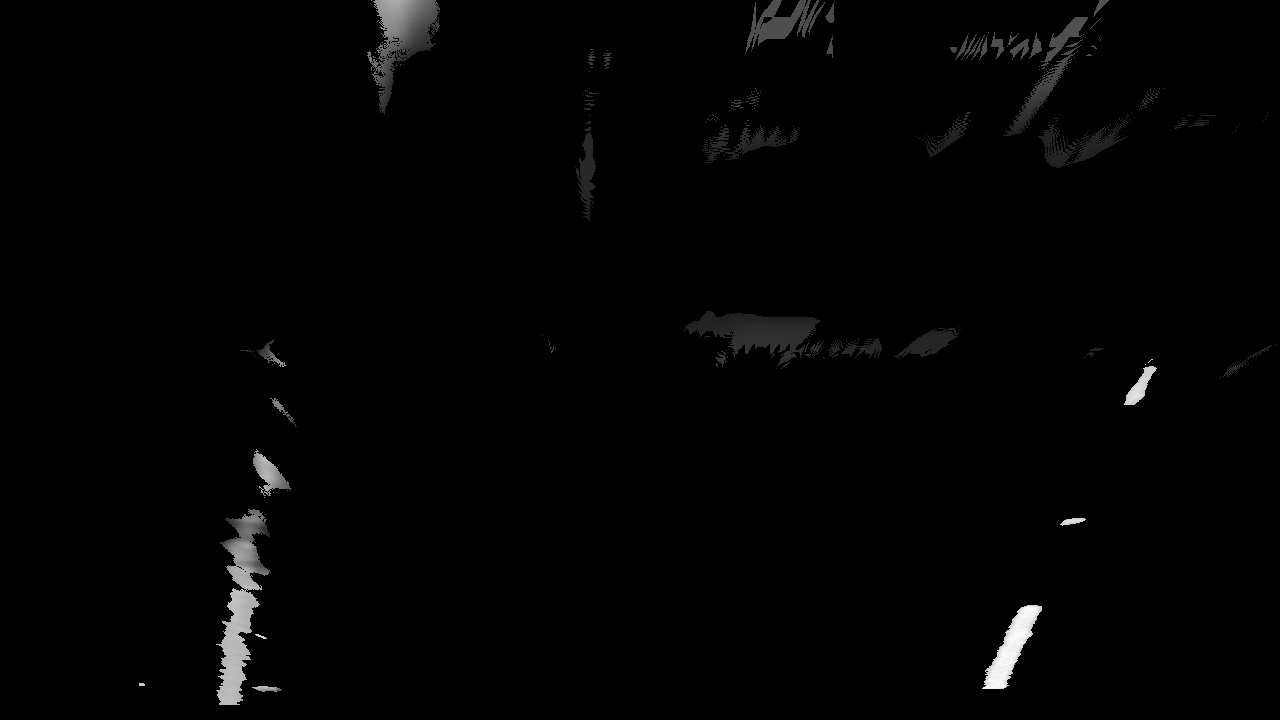
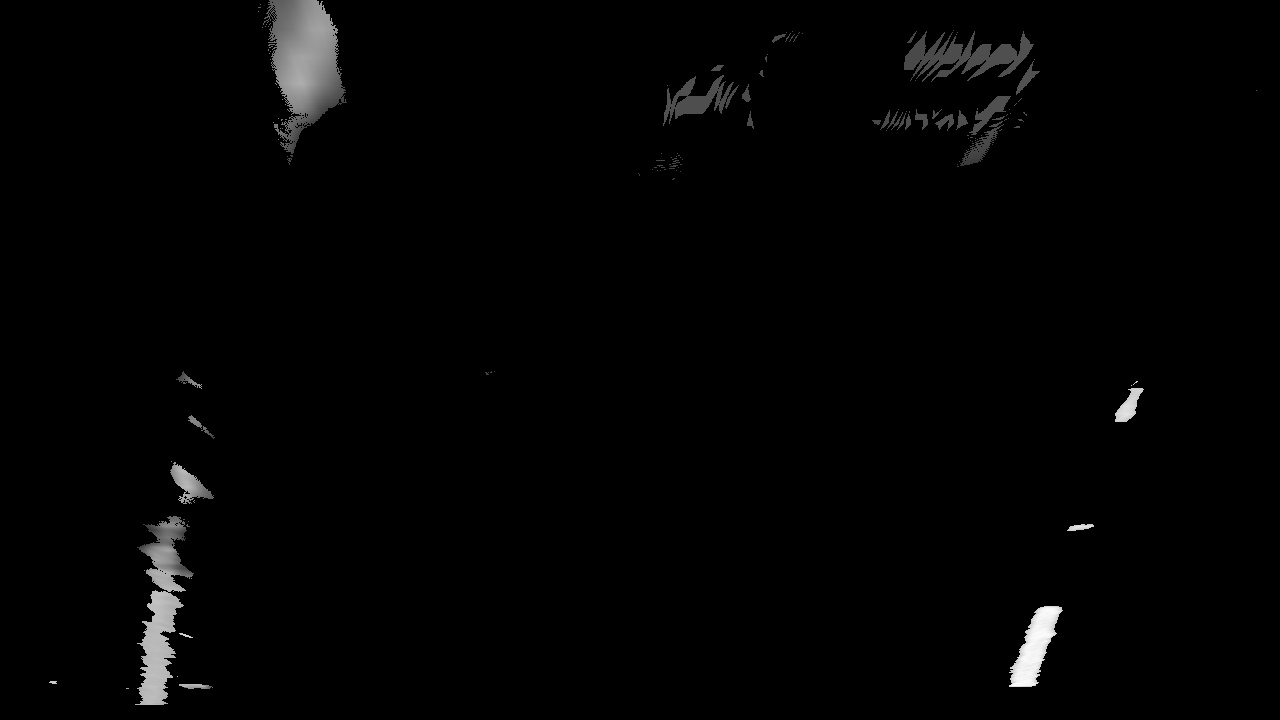
Improve perspective transformation and color calibration

diff --git a/lane_detector.py b/lane_detector.py
@@ -4,7 +4,7 @@ import os
 
 
 class BufferedPolyFit:
-    def __init__(self, order, size=3, max_skip=3):
+    def __init__(self, order, size=5, max_skip=3):
         self.order = order
         self.size = size
         self.max_skip = max_skip
@@ -19,7 +19,8 @@ class BufferedPolyFit:
         return np.poly1d(np.polyfit(
             np.concatenate(self.x_buffer),
             np.concatenate(self.y_buffer),
-            self.order
+            self.order,
+            w=sum([[i+1]*len(self.x_buffer[i]) for i in range(len(self.x_buffer))], [])
         ))
 
     def fit(self, x, y):
@@ -27,16 +28,6 @@ class BufferedPolyFit:
 
         if not len(x):
             return current_fit
-        
-        if current_fit:
-            local_fit = np.polyfit(x, y, 2)
-
-            # Skip weird fits
-            if abs(local_fit[0]) > 0.0002 or abs(local_fit[2]) > 2000 and self.skipped < self.max_skip:
-                self.skipped += 1
-                return current_fit
-            else:
-                self.skipped = 0
         
         self.x_buffer.append(x)
         self.y_buffer.append(y)
@@ -60,7 +51,7 @@ class LaneDetector:
         gray = cv2.cvtColor(img, cv2.COLOR_BGR2GRAY)
         hsv = cv2.cvtColor(img, cv2.COLOR_BGR2HSV)
 
-        mask_yellow = cv2.inRange(hsv, np.array([20, 50, 50]), np.array([110, 255, 255]))
+        mask_yellow = cv2.inRange(hsv, np.array([20, 50, 75]), np.array([110, 255, 255]))
         mask_white = cv2.inRange(gray, 200, 255)
         mask_yw = cv2.bitwise_or(mask_white, mask_yellow)
         

diff --git a/perspective.py b/perspective.py
@@ -4,8 +4,8 @@ import numpy as np
 
 class Perspective:
     def __init__(self):
-        src = np.float32([ [570, 450], [715, 450], [1346, 650], [50, 650] ])
-        dst = np.float32([ [0, 0], [1280, 0], [1280, 720], [0, 720] ])
+        src = np.float32([ [613, 445], [689, 445], [895, 553], [472, 553] ])
+        dst = np.float32([ [225, -70], [1280 - 225, -70], [1280 - 225, 720 - 70], [225, 720 - 70] ])
 
         self.M = cv2.getPerspectiveTransform(src, dst)
         self.M_i = cv2.getPerspectiveTransform(dst, src)

diff --git a/main.py b/main.py
@@ -37,12 +37,16 @@ while cap.isOpened():
     if not ret:
         break
 
-    frame = detector.run(frame)
-    cv2.imshow("road.mp4", frame)
+    key = cv2.waitKey(25)
 
-    if cv2.waitKey(25) & 0xFF == ord("q"):
-        cv2.imwrite("test.jpg", frame)
+    if key & 0xFF == ord("s"):
+        frame = detector.run(frame, "OUTPUT/frame")
+    elif key & 0xFF == ord("q"):
         break
+    else:
+        frame = detector.run(frame)
+    
+    cv2.imshow("road.mp4", frame)
 
 cap.release()
 cv2.destroyAllWindows()

diff --git a/test.py b/test.py
@@ -15,3 +15,14 @@ np.array([1, 2, 3])[np.array([1])]
 
 
 #%%
+import numpy as np
+
+a = np.array([1, 1, 2, 3, 4, 4, 5, 9])
+a
+
+#%%
+hist = np.histogram(a, 10, (0, 10))[0]
+hist
+
+#%%
+hist[a]
